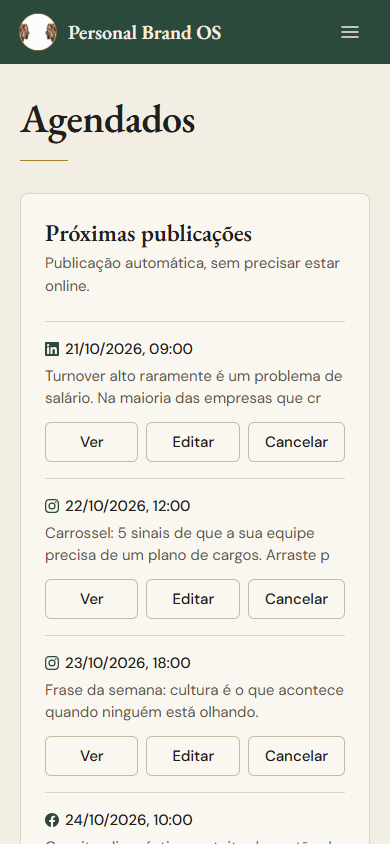
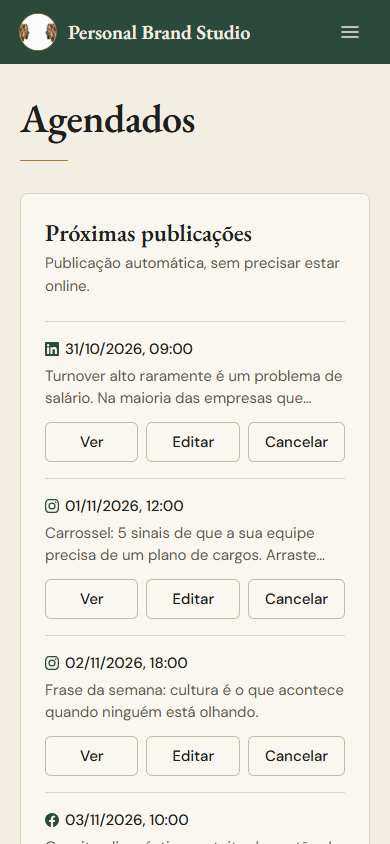
Vitrine: asyncpg 0.32, README com npm install, prévias em palavra inteira e "Ex.:"
- requirements.txt: asyncpg 0.32.0 (a 0.28 não instala no Python 3.12); 141 testes do backend passam
- README: comandos da demonstração na ordem, a partir de um clone novo (npm install dentro de frontend antes do npm run demo)
- prévias de texto (Início, Agendados e Não publicados) terminam em palavra inteira, com reticências (lib/textoCurto.ts, com testes)
- "Ex.:" no exemplo do campo Tema do post
- docs/prints refeitos pelo modo de demonstração

diff --git a/frontend/components/ScheduledPanel.tsx b/frontend/components/ScheduledPanel.tsx
@@ -2,6 +2,7 @@
 
 import { useState, useEffect, useCallback } from 'react'
 import { postsApi, type PostResponse, type PreviaPost } from '../services/api'
+import { previaPrimeiraLinha } from '../lib/textoCurto'
 import { IconLinkedIn, IconInstagram, IconFacebook, IconSpinner, IconCalendar } from './ui'
 import { PainelVer, FormEditar } from './ScheduledPostView'
 
@@ -121,7 +122,7 @@ export function ScheduledPostsPanel({ refreshKey }: ScheduledPostsPanelProps) {
                       : 'Sem agendamento'}
                   </span>
                 </div>
-                <p className="text-sm text-brand-text-muted line-clamp-2 break-words">{post.content.split('\n')[0].slice(0, 80)}</p>
+                <p className="text-sm text-brand-text-muted line-clamp-2 break-words">{previaPrimeiraLinha(post.content, 80)}</p>
               </div>
               <div className="flex gap-2 flex-shrink-0">
                 <button onClick={() => abre(post.id, 'ver')} aria-expanded={aberto?.id === post.id && aberto.modo === 'ver'}
@@ -169,7 +170,7 @@ export function ScheduledPostsPanel({ refreshKey }: ScheduledPostsPanelProps) {
                     {post.scheduled_at
                       ? new Date(post.scheduled_at).toLocaleString('pt-BR', { dateStyle: 'short', timeStyle: 'short' })
                       : 'Sem agendamento'}
-                    {' · '}{post.content.split('\n')[0].slice(0, 60)}
+                    {' · '}{previaPrimeiraLinha(post.content, 60)}
                   </span>
                 </div>
                 <p className="text-sm text-red-700 break-words" role="status">

diff --git a/frontend/lib/textoCurto.ts b/frontend/lib/textoCurto.ts
@@ -1,0 +1,27 @@
+/**
+ * lib/textoCurto.ts
+ * Prévia de texto nas listas (Início, Agendados, Não publicados): primeira linha
+ * com conteúdo, cortada em palavra inteira e seguida de reticências.
+ *
+ * Sem dependências, para ser testado direto no Node (tests/texto-curto.test.mjs).
+ */
+
+/** Corta em até `max` caracteres (sem contar a reticência), sem partir palavra. */
+export function cortarEmPalavra(texto: string, max: number): string {
+  const t = texto.trim()
+  if (t.length <= max) return t
+  let corte = t.slice(0, max)
+  // A palavra só está inteira se o caractere seguinte for espaço.
+  if (!/\s/.test(t[max])) {
+    const espaco = corte.search(/\s\S*$/)
+    if (espaco > 0) corte = corte.slice(0, espaco)
+  }
+  // Sem pontuação solta antes da reticência ("salário.…", "cargos,…").
+  return `${corte.replace(/[\s.,;:!?(\[{"'“‘-]+$/, '')}…`
+}
+
+/** Primeira linha com conteúdo do texto, já cortada para a prévia. */
+export function previaPrimeiraLinha(conteudo: string, max: number): string {
+  const linha = conteudo.split('\n').map(l => l.trim()).find(Boolean) || ''
+  return cortarEmPalavra(linha, max)
+}

diff --git a/frontend/app/(app)/page.tsx b/frontend/app/(app)/page.tsx
@@ -6,12 +6,12 @@ import { postsApi, type PostResponse } from '../../services/api'
 import { useApp } from '../../components/AppShell'
 import { useConnectionStatus } from '../../components/ConnectionsPanel'
 import { IconArrow, IconLinkedIn, IconInstagram, IconSpinner } from '../../components/ui'
+import { previaPrimeiraLinha } from '../../lib/textoCurto'
 
 const WEEK_MS = 7 * 24 * 60 * 60 * 1000
 
 function firstLine(content: string): string {
-  const line = content.split('\n').map(l => l.trim()).find(Boolean) || ''
-  return line.length > 90 ? `${line.slice(0, 89)}…` : line
+  return previaPrimeiraLinha(content, 89)
 }
 
 function formatDay(iso: string): { day: string; time: string } {

diff --git a/frontend/components/CreatePanels.tsx b/frontend/components/CreatePanels.tsx
@@ -276,7 +276,7 @@ export function CreationStudio({ onResult, onToast }: StudioProps) {
         <textarea
           value={topic}
           onChange={e => setTopic(e.target.value)}
-          placeholder="Ex: turnover alto como sintoma de cultura organizacional fraca"
+          placeholder="Ex.: turnover alto como sintoma de cultura organizacional fraca"
           rows={4}
           className="input resize-none text-base"
           onKeyDown={e => {

diff --git a/README.md b/README.md
@@ -56,10 +56,11 @@ flowchart LR
 
 ## Como ver a demonstração
 
-Para ver o app funcionando sem banco, sem backend e sem senha, com dados fictícios:
+Para ver o app funcionando sem banco, sem backend e sem senha, com dados fictícios. Precisa de Node.js 20 ou mais novo. A partir de um clone novo, rode na ordem (o `npm install`, dentro de `frontend`, vem antes do `npm run demo` e só é preciso na primeira vez):
 
 ```bash
-cd frontend
+git clone https://github.com/danielamatosfreitas/personal-brand-studio.git
+cd personal-brand-studio/frontend
 npm install
 npm run demo
 ```
@@ -149,7 +150,16 @@ The architecture diagram is in the Portuguese section above.
 
 ## Demo
 
-To see the app running with fictitious data, without a database, a backend or a password: `cd frontend`, `npm install`, `npm run demo`, then open `http://127.0.0.1:3210`. A sample API (`frontend/demo/api-demo.mjs`) answers in place of the backend; publishing, scheduling and connecting accounts are only simulated and nothing reaches the social networks. `Ctrl+C` stops everything.
+To see the app running with fictitious data, without a database, a backend or a password (Node.js 20 or newer). From a fresh clone, run in this order (`npm install`, inside `frontend`, comes before `npm run demo` and is only needed the first time):
+
+```bash
+git clone https://github.com/danielamatosfreitas/personal-brand-studio.git
+cd personal-brand-studio/frontend
+npm install
+npm run demo
+```
+
+Then open `http://127.0.0.1:3210`. A sample API (`frontend/demo/api-demo.mjs`) answers in place of the backend; publishing, scheduling and connecting accounts are only simulated and nothing reaches the social networks. `Ctrl+C` stops everything.
 
 ## Running
 
